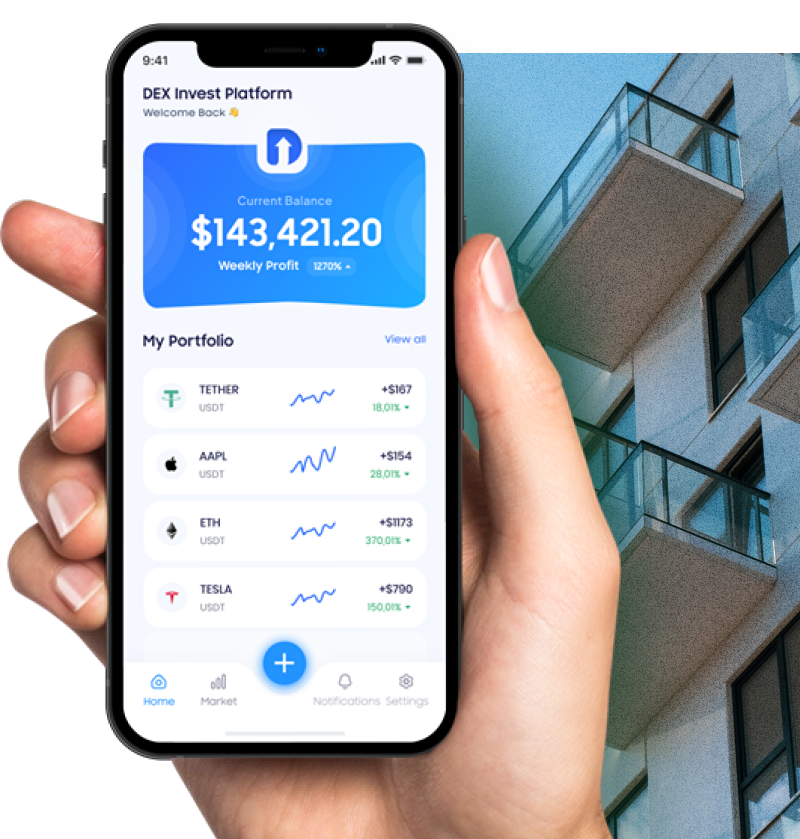
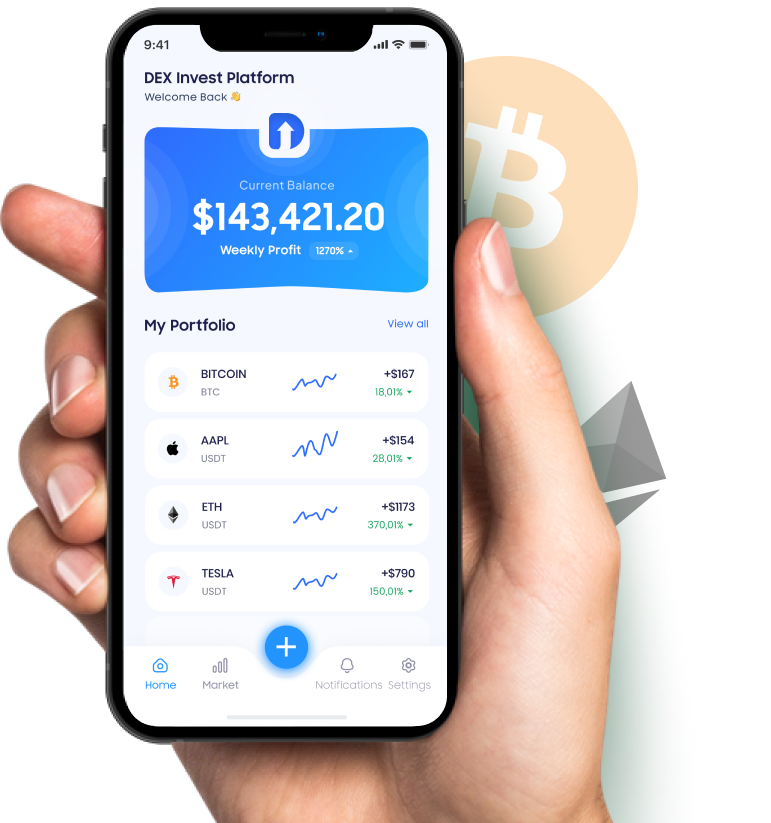
Update mobile image & fonts

diff --git a/styles/css/main.min.css b/styles/css/main.min.css
@@ -1,1 +1,1 @@
-@font-face{font-family:"Samsung Sharp Sans";font-weight:700;src:url(../../../dex-test/resources/fonts/samsungsharpsans/samsungsharpsans-bold.eot);src:url(../../../dex-test/resources/fonts/samsungsharpsans/samsungsharpsans-bold.eot?#iefix) format("embedded-opentype"),url(../../../dex-test/resources/fonts/samsungsharpsans/samsungsharpsans-bold.ttf) format("truetype"),url(../../../dex-test/resources/fonts/samsungsharpsans/samsungsharpsans-bold.woff) format("woff"),url(../../../dex-test/resources/fonts/samsungsharpsans/samsungsharpsans-bold.woff2) format("woff2"),url(../../../dex-test/resources/fonts/samsungsharpsans/samsungsharpsans-bold.otf) format("otf"),url(../../../dex-test/resources/fonts/samsungsharpsans/samsungsharpsans-bold.svg#samsungsharpsans-bold) format("svg")}@font-face{font-family:"Samsung Sharp Sans";font-weight:500;src:url(../../../dex-test/resources/fonts/samsungsharpsans/samsungsharpsans-medium.eot);src:url(../../../dex-test/resources/fonts/samsungsharpsans/samsungsharpsans-medium.eot?#iefix) format("embedded-opentype"),url(../../../dex-test/resources/fonts/samsungsharpsans/samsungsharpsans-medium.otf) format("otf"),url(../../../dex-test/resources/fonts/samsungsharpsans/samsungsharpsans-medium.svg#samsungsharpsans-medium) format("svg"),url(../../../dex-test/resources/fonts/samsungsharpsans/samsungsharpsans-medium.ttf) format("truetype"),url(../../../dex-test/resources/fonts/samsungsharpsans/samsungsharpsans-medium.woff) format("woff"),url(../../../dex-test/resources/fonts/samsungsharpsans/samsungsharpsans-medium.woff2) format("woff2")}@font-face{font-family:"Eudoxus Sans";font-weight:700;src:url(../../../dex-test/resources/fonts/EudoxusSans/EudoxusSans-Bold.eot);src:url(../../../dex-test/resources/fonts/EudoxusSans/EudoxusSans-Bold.eot?#iefix) format("embedded-opentype"),url(../../../dex-test/resources/fonts/EudoxusSans/EudoxusSans-Bold.otf) format("otf"),url(../../../dex-test/resources/fonts/EudoxusSans/EudoxusSans-Bold.svg#EudoxusSans-Bold) format("svg"),url(../../../dex-test/resources/fonts/EudoxusSans/EudoxusSans-Bold.ttf) format("truetype"),url(../../../dex-test/resources/fonts/EudoxusSans/EudoxusSans-Bold.woff) format("woff"),url(../../../dex-test/resources/fonts/EudoxusSans/EudoxusSans-Bold.woff2) format("woff2")}@font-face{font-family:"Eudoxus Sans";font-weight:400;src:url(../../../dex-test/resources/fonts/EudoxusSans/EudoxusSans-Regular.eot);src:url(../../../dex-test/resources/fonts/EudoxusSans/EudoxusSans-Regular.eot?#iefix) format("embedded-opentype"),url(../../../dex-test/resources/fonts/EudoxusSans/EudoxusSans-Regular.otf) format("otf"),url(../../../dex-test/resources/fonts/EudoxusSans/EudoxusSans-Regular.svg#EudoxusSans-Regular) format("svg"),url(../../../dex-test/resources/fonts/EudoxusSans/EudoxusSans-Regular.ttf) format("truetype"),url(../../../dex-test/resources/fonts/EudoxusSans/EudoxusSans-Regular.woff) format("woff"),url(../../../dex-test/resources/fonts/EudoxusSans/EudoxusSans-Regular.woff2) format("woff2")}html,body,div,span,applet,object,iframe,h1,h2,h3,h4,h5,h6,p,blockquote,pre,a,abbr,acronym,address,big,cite,code,del,dfn,em,img,ins,kbd,q,s,samp,small,strike,strong,sub,sup,tt,var,b,u,i,center,dl,dt,dd,ol,ul,li,fieldset,form,label,legend,table,caption,tbody,tfoot,thead,tr,th,td,article,aside,canvas,details,embed,figure,figcaption,footer,header,hgroup,menu,nav,output,ruby,section,summary,time,mark,audio,video{margin:0;padding:0;border:0;font-size:100%;font:inherit;vertical-align:baseline}article,aside,details,figcaption,figure,footer,header,hgroup,menu,nav,section{display:block}body{line-height:1}ol,ul{list-style:none}blockquote,q{quotes:none}blockquote:before,blockquote:after,q:before,q:after{content:"";content:none}table{border-collapse:collapse;border-spacing:0}*,*::before,*::after{box-sizing:border-box}.container{margin:0 auto;max-width:1280px}@media screen and (max-width: 1300px){.container{padding-left:10px;padding-right:10px}}.btn{border:1px solid #2e6dfe;border-radius:7px;background-color:#2e6dfe;color:#fff;font-family:"Samsung Sharp Sans","Arial","Helvetica",sans-serif;font-weight:700;line-height:1.3;text-decoration:none;cursor:pointer;transition:all 300ms}.btn:hover{transform:scale(1.1)}.pulse{box-shadow:0 0 0 0 #34ace0;animation:pulse-blue 2s infinite}.pulse:hover{animation:none}@keyframes pulse-blue{0%{transform:scale(0.95);box-shadow:0 0 0 0 rgba(52,172,224,.7)}70%{transform:scale(1);box-shadow:0 0 0 10px rgba(52,172,224,0)}100%{transform:scale(0.95);box-shadow:0 0 0 0 rgba(52,172,224,0)}}.header{background-color:#fff;padding:29px 0}.header__container{display:flex;justify-content:space-between}.header__logo{display:flex;font-family:"Samsung Sharp Sans","Arial","Helvetica",sans-serif}.header__logo .text{margin-left:16px;line-height:1.1}.header__logo .text span:first-of-type{text-transform:uppercase;font-weight:700;font-size:34px}.header__logo .text span:last-of-type{text-transform:capitalize;font-weight:500;font-size:16px}.header__actions{flex-grow:1;flex-shrink:1;display:flex;justify-content:right}.header__button{padding:14px 30px;font-size:20px}.main .content{padding-top:calc(10px + 5.0658561297vh);position:relative;z-index:1}.main .content__text .title{font-family:"Samsung Sharp Sans","Arial","Helvetica",sans-serif;line-height:1.3;font-size:calc(24px + 2.25vw);font-weight:700;color:#0f2851}.main .content__text .title span{color:#2e6dfe}.main .content__text .description{margin-top:calc(10px + 1.7223910841vh);font-family:"Eudoxus Sans","Arial","Helvetica",sans-serif;line-height:1.3;font-size:calc(14px + .5vw);font-weight:400;color:#0f2851}.main .content__text .description span{font-weight:700}.main .content__widget{margin-top:calc(10px + 3.0395136778vh);border-radius:10px;text-align:center;padding:24px 32px 14px;padding-top:38px;width:fit-content;background-color:#fff;box-shadow:0px 0 10px rgba(0,0,0,.3)}.main .content__widget .button{width:100%;padding:13px 70px;font-size:calc(10px + 1.125vw)}.main .content__widget .button img{margin-left:10px}.main .content__widget .button:hover .arrow-right{animation:arrowMove 1s infinite}.main .content__widget .description{margin-top:24px;display:flex;justify-content:space-between;align-items:center;font-family:"Eudoxus Sans","Arial","Helvetica",sans-serif;font-size:calc(12px + .5vw);line-height:1.3;color:#0f2851}.main .content__widget .description p{text-align:left;font-weight:400}.main .content__widget .description span{font-weight:700}.main .content__widget .description .gift-holder{margin-right:14px;padding:13px;padding-bottom:6.5px;border-radius:10px;background-color:#f5f8fe}@keyframes arrowMove{0%{transform:translateX(4px)}25%{transform:scale(6px)}50%{transform:scale(8px)}75%{transform:scale(10px)}100%{transform:scale(12px)}}html{font-size:16px}body{background-color:#f5f8fe}.main{margin:0 auto;max-width:1600px;background-color:#f5f8fe;height:calc(100vh - 114px);position:relative}.main__decoration{height:100%;max-height:800px;position:absolute;right:0;bottom:0;z-index:0}@media screen and (min-height: 1200px){.main__decoration{top:0}}@media screen and (max-width: 1300px){.main__decoration{max-height:700px}}
+@font-face{font-family:"Samsung Sharp Sans";font-weight:700;src:url(../../../dex-test/resources/fonts/samsungsharpsans/samsungsharpsans-bold.eot);src:url(../../../dex-test/resources/fonts/samsungsharpsans/samsungsharpsans-bold.eot?#iefix) format("embedded-opentype"),url(../../../dex-test/resources/fonts/samsungsharpsans/samsungsharpsans-bold.ttf) format("truetype"),url(../../../dex-test/resources/fonts/samsungsharpsans/samsungsharpsans-bold.woff) format("woff"),url(../../../dex-test/resources/fonts/samsungsharpsans/samsungsharpsans-bold.woff2) format("woff2"),url(../../../dex-test/resources/fonts/samsungsharpsans/samsungsharpsans-bold.otf) format("otf"),url(../../../dex-test/resources/fonts/samsungsharpsans/samsungsharpsans-bold.svg#samsungsharpsans-bold) format("svg")}@font-face{font-family:"Samsung Sharp Sans";font-weight:500;src:url(../../../dex-test/resources/fonts/samsungsharpsans/samsungsharpsans-medium.eot);src:url(../../../dex-test/resources/fonts/samsungsharpsans/samsungsharpsans-medium.eot?#iefix) format("embedded-opentype"),url(../../../dex-test/resources/fonts/samsungsharpsans/samsungsharpsans-medium.otf) format("otf"),url(../../../dex-test/resources/fonts/samsungsharpsans/samsungsharpsans-medium.svg#samsungsharpsans-medium) format("svg"),url(../../../dex-test/resources/fonts/samsungsharpsans/samsungsharpsans-medium.ttf) format("truetype"),url(../../../dex-test/resources/fonts/samsungsharpsans/samsungsharpsans-medium.woff) format("woff"),url(../../../dex-test/resources/fonts/samsungsharpsans/samsungsharpsans-medium.woff2) format("woff2")}@font-face{font-family:"Eudoxus Sans";font-weight:700;src:url(../../../dex-test/resources/fonts/EudoxusSans/EudoxusSans-Bold.eot);src:url(../../../dex-test/resources/fonts/EudoxusSans/EudoxusSans-Bold.eot?#iefix) format("embedded-opentype"),url(../../../dex-test/resources/fonts/EudoxusSans/EudoxusSans-Bold.otf) format("otf"),url(../../../dex-test/resources/fonts/EudoxusSans/EudoxusSans-Bold.svg#EudoxusSans-Bold) format("svg"),url(../../../dex-test/resources/fonts/EudoxusSans/EudoxusSans-Bold.ttf) format("truetype"),url(../../../dex-test/resources/fonts/EudoxusSans/EudoxusSans-Bold.woff) format("woff"),url(../../../dex-test/resources/fonts/EudoxusSans/EudoxusSans-Bold.woff2) format("woff2")}@font-face{font-family:"Eudoxus Sans";font-weight:400;src:url(../../../dex-test/resources/fonts/EudoxusSans/EudoxusSans-Regular.eot);src:url(../../../dex-test/resources/fonts/EudoxusSans/EudoxusSans-Regular.eot?#iefix) format("embedded-opentype"),url(../../../dex-test/resources/fonts/EudoxusSans/EudoxusSans-Regular.otf) format("otf"),url(../../../dex-test/resources/fonts/EudoxusSans/EudoxusSans-Regular.svg#EudoxusSans-Regular) format("svg"),url(../../../dex-test/resources/fonts/EudoxusSans/EudoxusSans-Regular.ttf) format("truetype"),url(../../../dex-test/resources/fonts/EudoxusSans/EudoxusSans-Regular.woff) format("woff"),url(../../../dex-test/resources/fonts/EudoxusSans/EudoxusSans-Regular.woff2) format("woff2")}html,body,div,span,applet,object,iframe,h1,h2,h3,h4,h5,h6,p,blockquote,pre,a,abbr,acronym,address,big,cite,code,del,dfn,em,img,ins,kbd,q,s,samp,small,strike,strong,sub,sup,tt,var,b,u,i,center,dl,dt,dd,ol,ul,li,fieldset,form,label,legend,table,caption,tbody,tfoot,thead,tr,th,td,article,aside,canvas,details,embed,figure,figcaption,footer,header,hgroup,menu,nav,output,ruby,section,summary,time,mark,audio,video{margin:0;padding:0;border:0;font-size:100%;font:inherit;vertical-align:baseline}article,aside,details,figcaption,figure,footer,header,hgroup,menu,nav,section{display:block}body{line-height:1}ol,ul{list-style:none}blockquote,q{quotes:none}blockquote:before,blockquote:after,q:before,q:after{content:"";content:none}table{border-collapse:collapse;border-spacing:0}*,*::before,*::after{box-sizing:border-box}.container{margin:0 auto;max-width:1280px}@media screen and (max-width: 1300px){.container{padding-left:10px;padding-right:10px}}.btn{border:1px solid #2e6dfe;border-radius:7px;background-color:#2e6dfe;color:#fff;font-family:"Samsung Sharp Sans","Arial","Helvetica",sans-serif;font-weight:700;line-height:1.3;text-decoration:none;cursor:pointer;transition:all 300ms}.btn:hover{transform:scale(1.1)}.pulse{box-shadow:0 0 0 0 #34ace0;animation:pulse-blue 2s infinite}.pulse:hover{animation:none}@keyframes pulse-blue{0%{transform:scale(0.95);box-shadow:0 0 0 0 rgba(52,172,224,.7)}70%{transform:scale(1);box-shadow:0 0 0 10px rgba(52,172,224,0)}100%{transform:scale(0.95);box-shadow:0 0 0 0 rgba(52,172,224,0)}}.header{background-color:#fff;padding:29px 0}.header__container{display:flex;justify-content:space-between}.header__logo{display:flex;font-family:"Samsung Sharp Sans","Arial","Helvetica",sans-serif}.header__logo .text{margin-left:16px;line-height:1.1}.header__logo .text span:first-of-type{text-transform:uppercase;font-weight:700;font-size:34px}.header__logo .text span:last-of-type{text-transform:capitalize;font-weight:500;font-size:16px}.header__actions{flex-grow:1;flex-shrink:1;display:flex;justify-content:right}.header__button{padding:14px 30px;font-size:20px;line-height:1.3}.main .content{padding-top:calc(10px + 5.0658561297vh);position:relative;z-index:1}.main .content__text .title{font-family:"Samsung Sharp Sans","Arial","Helvetica",sans-serif;line-height:1.113;font-size:calc(24px + 2.25vw);font-weight:700;color:#0f2851}.main .content__text .title span{color:#2e6dfe}.main .content__text .description{margin-top:calc(10px + 1.7223910841vh);font-family:"Eudoxus Sans","Arial","Helvetica",sans-serif;line-height:1.4;font-size:calc(14px + .5vw);font-weight:400;color:#0f2851}.main .content__text .description span{font-weight:700}.main .content__widget{margin-top:calc(10px + 3.0395136778vh);border-radius:10px;text-align:center;padding:24px 32px 14px;padding-top:38px;width:fit-content;background-color:#fff;box-shadow:0px 0 10px rgba(0,0,0,.3)}.main .content__widget .button{width:100%;padding:13px 70px;font-size:calc(10px + 1.125vw)}.main .content__widget .button img{margin-left:10px}.main .content__widget .button:hover .arrow-right{animation:arrowMove 1s infinite}.main .content__widget .description{margin-top:24px;display:flex;justify-content:space-between;align-items:center;font-family:"Eudoxus Sans","Arial","Helvetica",sans-serif;font-size:calc(12px + .5vw);line-height:1.26;color:#0f2851}.main .content__widget .description p{text-align:left;font-weight:400}.main .content__widget .description span{font-weight:700}.main .content__widget .description .gift-holder{margin-right:14px;padding:13px;padding-bottom:6.5px;border-radius:10px;background-color:#f5f8fe}@keyframes arrowMove{0%{transform:translateX(4px)}25%{transform:scale(6px)}50%{transform:scale(8px)}75%{transform:scale(10px)}100%{transform:scale(12px)}}html{font-size:16px}body{background-color:#f5f8fe}.main{margin:0 auto;max-width:1600px;background-color:#f5f8fe;height:calc(100vh - 114px);position:relative}.main__decoration{height:100%;max-height:800px;position:absolute;right:0;bottom:0;z-index:0}@media screen and (min-height: 1200px){.main__decoration{top:0}}@media screen and (max-width: 1300px){.main__decoration{max-height:700px}}

diff --git a/styles/sass/layout/_content.scss b/styles/sass/layout/_content.scss
@@ -11,7 +11,7 @@
             
             & .title {
                 font-family:'Samsung Sharp Sans', 'Arial', 'Helvetica', sans-serif;
-                line-height: 1.3;
+                line-height: 1.113;
                 font-size: calc(24px + 36 * (100vw / 1600));
                 font-weight: 700;
                 color: $text-color;
@@ -24,7 +24,7 @@
             & .description {
                 margin-top: calc(10px + 17 * (100vh / 987));
                 font-family:'Eudoxus Sans', 'Arial', 'Helvetica', sans-serif;
-                line-height: 1.3;
+                line-height: 1.4;
                 font-size: calc(14px + 8 * (100vw / 1600)); //22
                 font-weight: 400;
                 color: $text-color;
@@ -69,7 +69,7 @@
                 align-items: center;
                 font-family: 'Eudoxus Sans', 'Arial', 'Helvetica', sans-serif;
                 font-size: calc(12px + 8 * (100vw / 1600));
-                line-height: 1.3;
+                line-height: 1.26;
                 color: $text-color;
 
                 & p {

diff --git a/styles/css/main.css b/styles/css/main.css
@@ -164,6 +164,7 @@ table {
 .header__button {
   padding: 14px 30px;
   font-size: 20px;
+  line-height: 1.3;
 }
 
 .main .content {
@@ -173,7 +174,7 @@ table {
 }
 .main .content__text .title {
   font-family: "Samsung Sharp Sans", "Arial", "Helvetica", sans-serif;
-  line-height: 1.3;
+  line-height: 1.113;
   font-size: calc(24px + 2.25vw);
   font-weight: 700;
   color: #0F2851;
@@ -184,7 +185,7 @@ table {
 .main .content__text .description {
   margin-top: calc(10px + 1.7223910841vh);
   font-family: "Eudoxus Sans", "Arial", "Helvetica", sans-serif;
-  line-height: 1.3;
+  line-height: 1.4;
   font-size: calc(14px + 0.5vw);
   font-weight: 400;
   color: #0F2851;
@@ -220,7 +221,7 @@ table {
   align-items: center;
   font-family: "Eudoxus Sans", "Arial", "Helvetica", sans-serif;
   font-size: calc(12px + 0.5vw);
-  line-height: 1.3;
+  line-height: 1.26;
   color: #0F2851;
 }
 .main .content__widget .description p {

diff --git a/styles/sass/layout/_header.scss b/styles/sass/layout/_header.scss
@@ -43,5 +43,6 @@
     &__button {
         padding: 14px 30px;
         font-size: 20px; //20px
+        line-height: 1.3;
     }
 }
